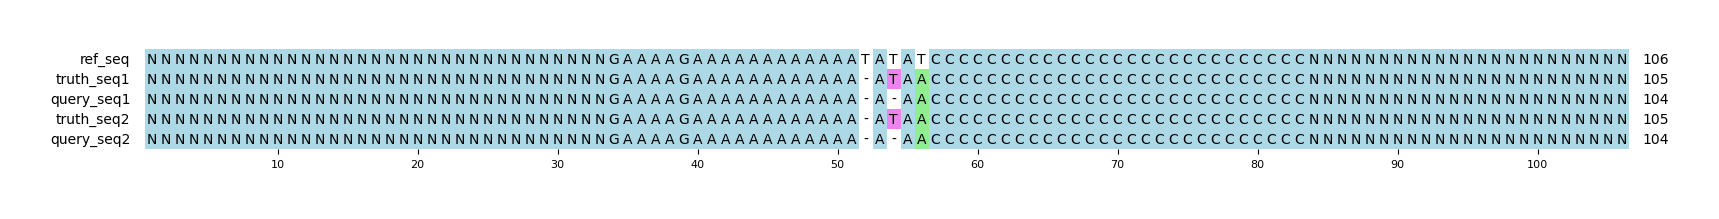
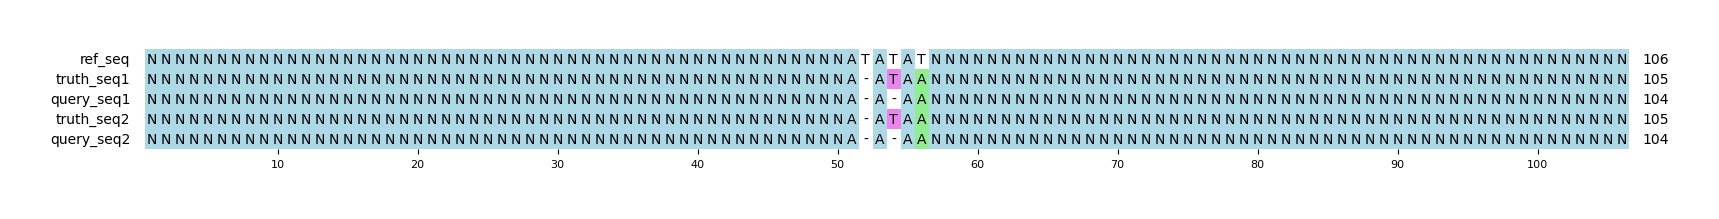
simplify repr_bias_002

diff --git a/pipeline/examples/repr_bias_002a/README.md b/pipeline/examples/repr_bias_002a/README.md
@@ -3,25 +3,28 @@
 This example was generated in conjunction with [repr_bias_002b](../repr_bias_002b) to demonstrate how variant representation can bias GT scoring.
 In this example, the query variants are represented as individual small variants (SNP/indel).
 When scored, both Hap.py and aardvark-GT both detect 1 TP SNV, 1 TP indel, and 1 FP indel.
+
+This example was generated manually based on a real event in a tandem repeat within the human genome: `chr1:192,369,881-192,369,920`.
+
 ## Reference sequences
 ```
 >mock
 NNNNNNNNNNNNNNNNNNNNNNNNNNNNNNNNNNNNNNNNNNNNNNNNNN
-GAAAAGAAAAAAAAAAAATATATCCCCCCCCCCCCCCCCCCCCCCCCCCC
+ATATATNNNNNNNNNNNNNNNNNNNNNNNNNNNNNNNNNNNNNNNNNNNN
 NNNNNNNNNNNNNNNNNNNNNNNNNNNNNNNNNNNNNNNNNNNNNNNNNN
 ```
 ## Truth variants
 ```
 #CHROM	POS	ID	REF	ALT	QUAL	FILTER	INFO	FORMAT	truth
-mock	68	.	AT	A	40	.	.	GT	1/1
-mock	73	.	T	A	40	.	.	GT	1/1
+mock	51	.	AT	A	40	.	.	GT	1/1
+mock	56	.	T	A	40	.	.	GT	1/1
 ```
 ## Query variants
 ```
 #CHROM	POS	ID	REF	ALT	QUAL	FILTER	INFO	FORMAT	query
-mock	68	.	AT	A	40	.	.	GT	1/1
-mock	70	.	AT	A	40	.	.	GT	1/1
-mock	73	.	T	A	40	.	.	GT	1/1
+mock	51	.	AT	A	40	.	.	GT	1/1
+mock	53	.	AT	A	40	.	.	GT	1/1
+mock	56	.	T	A	40	.	.	GT	1/1
 ```
 ## Output summary
 Variant Type | Metric | Hap.py-GT | Aardvark-GT | Aardvark-Basepair

diff --git a/pipeline/examples/repr_bias_002b/README.md b/pipeline/examples/repr_bias_002b/README.md
@@ -5,23 +5,26 @@ In this example, the query variants are represented as a single complex indel.
 When scored, both Hap.py and aardvark-GT label that event as a FP, and all truth variants as FN.
 
 In contrast, the basepair scoring is identical to the results of repr_bias_002a because the variants represent the same genomic changes.
+
+This example was generated manually based on a real event in a tandem repeat within the human genome: `chr1:192,369,881-192,369,920`.
+
 ## Reference sequences
 ```
 >mock
 NNNNNNNNNNNNNNNNNNNNNNNNNNNNNNNNNNNNNNNNNNNNNNNNNN
-GAAAAGAAAAAAAAAAAATATATCCCCCCCCCCCCCCCCCCCCCCCCCCC
+ATATATNNNNNNNNNNNNNNNNNNNNNNNNNNNNNNNNNNNNNNNNNNNN
 NNNNNNNNNNNNNNNNNNNNNNNNNNNNNNNNNNNNNNNNNNNNNNNNNN
 ```
 ## Truth variants
 ```
 #CHROM	POS	ID	REF	ALT	QUAL	FILTER	INFO	FORMAT	truth
-mock	68	.	AT	A	40	.	.	GT	1/1
-mock	73	.	T	A	40	.	.	GT	1/1
+mock	51	.	AT	A	40	.	.	GT	1/1
+mock	56	.	T	A	40	.	.	GT	1/1
 ```
 ## Query variants
 ```
 #CHROM	POS	ID	REF	ALT	QUAL	FILTER	INFO	FORMAT	query
-mock	69	.	TATAT	AAA	40	.	.	GT	1/1
+mock	51	.	ATATAT	AAAA	40	.	.	GT	1/1
 ```
 ## Output summary
 Variant Type | Metric | Hap.py-GT | Aardvark-GT | Aardvark-Basepair

diff --git a/pipeline/examples/repr_bias_002a/notes.md b/pipeline/examples/repr_bias_002a/notes.md
@@ -2,3 +2,5 @@
 This example was generated in conjunction with [repr_bias_002b](../repr_bias_002b) to demonstrate how variant representation can bias GT scoring.
 In this example, the query variants are represented as individual small variants (SNP/indel).
 When scored, both Hap.py and aardvark-GT both detect 1 TP SNV, 1 TP indel, and 1 FP indel.
+
+This example was generated manually based on a real event in a tandem repeat within the human genome: `chr1:192,369,881-192,369,920`.

diff --git a/pipeline/examples/repr_bias_001a/notes.md b/pipeline/examples/repr_bias_001a/notes.md
@@ -2,3 +2,5 @@
 This example was generated in conjunction with [repr_bias_001b](../repr_bias_001b) to demonstrate how variant representation can bias GT scoring.
 In this example, the query variants are represented as individual small variants (SNP/indel).
 When scored, both Hap.py and aardvark-GT detect the SNP as a TP and the indel as a FP.
+
+This example was generated manually using a real event in a tandem repeat within the human genome: `chr1:61,593,380-61,593,419`.

diff --git a/pipeline/examples/repr_bias_002b/notes.md b/pipeline/examples/repr_bias_002b/notes.md
@@ -4,3 +4,5 @@ In this example, the query variants are represented as a single complex indel.
 When scored, both Hap.py and aardvark-GT label that event as a FP, and all truth variants as FN.
 
 In contrast, the basepair scoring is identical to the results of repr_bias_002a because the variants represent the same genomic changes.
+
+This example was generated manually based on a real event in a tandem repeat within the human genome: `chr1:192,369,881-192,369,920`.

diff --git a/pipeline/examples/repr_bias_001a/README.md b/pipeline/examples/repr_bias_001a/README.md
@@ -4,6 +4,8 @@ This example was generated in conjunction with [repr_bias_001b](../repr_bias_001
 In this example, the query variants are represented as individual small variants (SNP/indel).
 When scored, both Hap.py and aardvark-GT detect the SNP as a TP and the indel as a FP.
 
+This example was generated manually using a real event in a tandem repeat within the human genome: `chr1:61,593,380-61,593,419`.
+
 ## Reference sequences
 ```
 >mock
